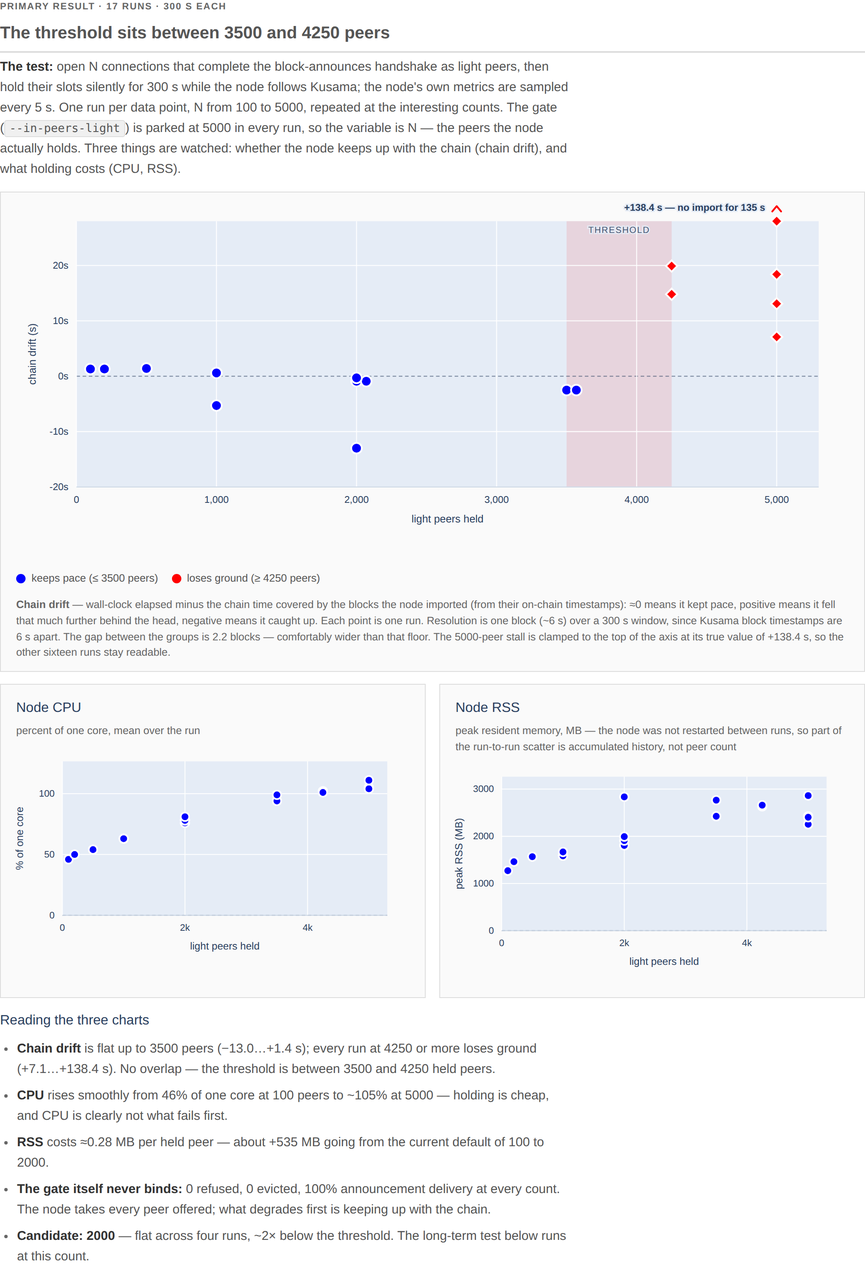
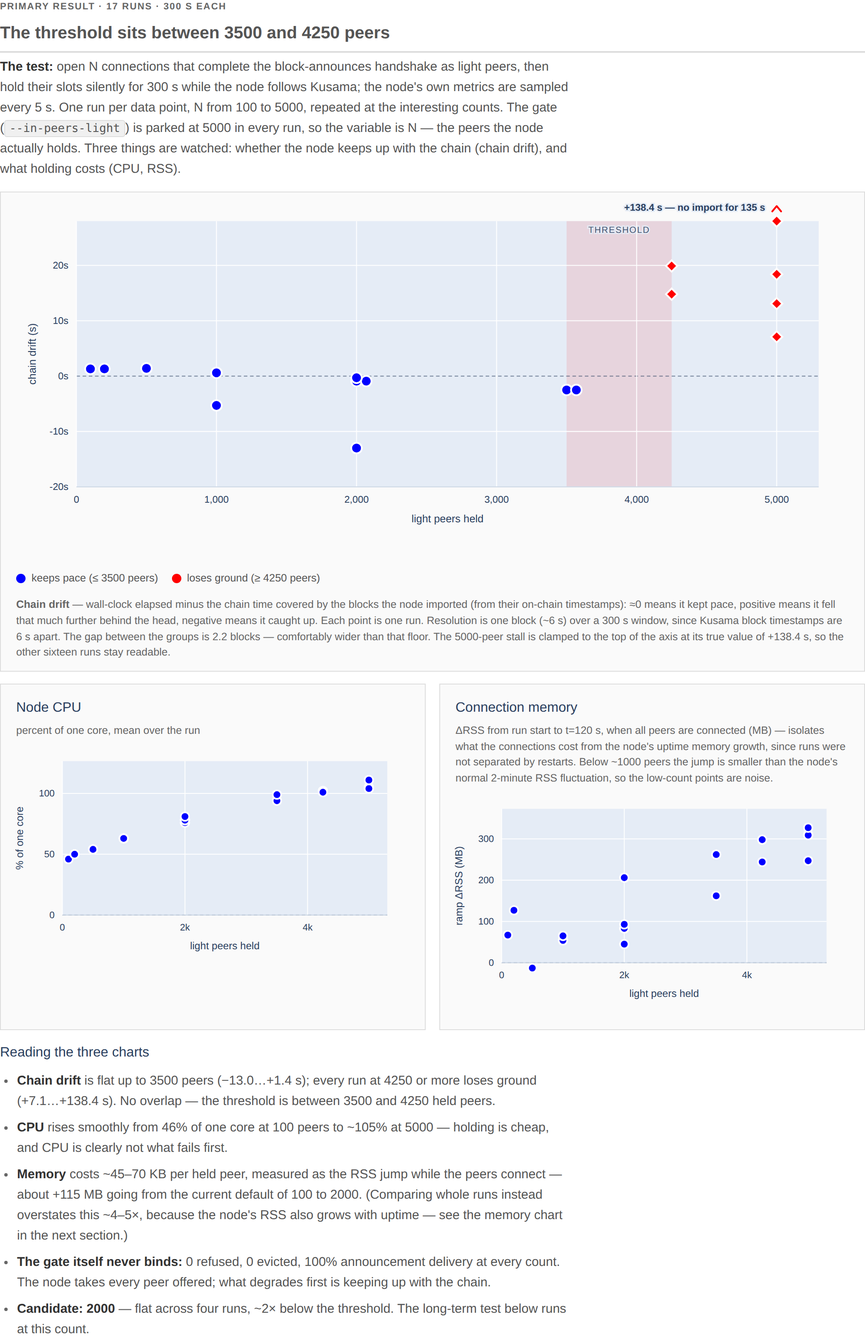
report: 2026-08-09T18:54Z

diff --git a/index.html b/index.html
@@ -205,9 +205,13 @@
         </div>
       </div>
       <div class="card">
-        <div class="card-head"><h3>Node RSS</h3><div class="card-note">peak resident memory, MB — the node was not restarted between runs, so part of the run-to-run scatter is accumulated history, not peer count</div></div>
+        <div class="card-head"><h3>Connection memory</h3><div class="card-note">ΔRSS from run start to
+        t=120 s, when all peers are connected (MB) — isolates what the connections cost from the
+        node's uptime memory growth, since runs were not separated by restarts. Below ~1000 peers
+        the jump is smaller than the node's normal 2-minute RSS fluctuation, so the low-count
+        points are noise.</div></div>
         <div class="chart-host">
-          <svg id="c-rss" viewBox="0 0 460 260" role="img" aria-label="Node memory rises from about 1271 MB at 100 peers to about 2400 MB at 5000, with run-to-run scatter."></svg>
+          <svg id="c-rss" viewBox="0 0 460 260" role="img" aria-label="Connection memory grows near-linearly with peer count, about 60 KB per peer, reaching 350 MB at 5000 peers."></svg>
           <div class="tip" id="t-rss"></div>
         </div>
       </div>
@@ -220,8 +224,10 @@
         and 4250 held peers.</li>
         <li><strong>CPU</strong> rises smoothly from 46% of one core at 100 peers to ~105% at
         5000 — holding is cheap, and CPU is clearly not what fails first.</li>
-        <li><strong>RSS</strong> costs ≈0.28 MB per held peer — about +535 MB going from the
-        current default of 100 to 2000.</li>
+        <li><strong>Memory</strong> costs ~45–70 KB per held peer, measured as the RSS jump while
+        the peers connect — about +115 MB going from the current default of 100 to 2000. (Comparing
+        whole runs instead overstates this ~4–5×, because the node's RSS also grows with uptime —
+        see the memory chart in the next section.)</li>
         <li><strong>The gate itself never binds:</strong> 0 refused, 0 evicted, 100% announcement
         delivery at every count. The node takes every peer offered; what degrades first is
         keeping up with the chain.</li>
@@ -371,7 +377,7 @@
 </div>
 
 <script>
-const D = {"peerRuns": [{"run": "light-100", "peers": 100, "drift": 1.3, "blocks": 48, "window": 295, "held": 100, "coverage": 100.0, "spread50": 1.3, "spread90": 1.7, "spread99": 2.1, "spreadMax": 3.8, "refused": 0, "evicted": 0, "rss": 1271, "cpu": 46, "fds": 1408, "finlag_mean": 2.9, "finlag_max": 4}, {"run": "light-200", "peers": 200, "drift": 1.3, "blocks": 49, "window": 295, "held": 200, "coverage": 100.0, "spread50": 2.2, "spread90": 2.8, "spread99": 3.1, "spreadMax": 3.5, "refused": 0, "evicted": 0, "rss": 1461, "cpu": 50, "fds": 1344, "finlag_mean": 2.9, "finlag_max": 5}, {"run": "light-500", "peers": 500, "drift": 1.4, "blocks": 46, "window": 295, "held": 500, "coverage": 100.0, "spread50": 5.4, "spread90": 6.4, "spread99": 7.3, "spreadMax": 7.4, "refused": 0, "evicted": 0, "rss": 1568, "cpu": 54, "fds": 1530, "finlag_mean": 2.9, "finlag_max": 4}, {"run": "light-1000-r1", "peers": 1000, "drift": 0.6, "blocks": 49, "window": 301, "held": 1000, "coverage": 100.0, "spread50": 10.0, "spread90": 12.7, "spread99": 14.4, "spreadMax": 15.0, "refused": 0, "evicted": 0, "rss": 1586, "cpu": 63, "fds": 2111, "finlag_mean": 2.9, "finlag_max": 4}, {"run": "light-1000-r2", "peers": 1000, "drift": -5.3, "blocks": 50, "window": 301, "held": 1000, "coverage": 100.0, "spread50": 10.1, "spread90": 11.9, "spread99": 12.7, "spreadMax": 13.7, "refused": 0, "evicted": 0, "rss": 1668, "cpu": 63, "fds": 2184, "finlag_mean": 3.0, "finlag_max": 5}, {"run": "light-2000-r1", "peers": 2000, "drift": -0.9, "blocks": 52, "window": 311, "held": 2000, "coverage": 100.0, "spread50": 19.3, "spread90": 21.9, "spread99": 23.1, "spreadMax": 23.6, "refused": 0, "evicted": 0, "rss": 1806, "cpu": 76, "fds": 3057, "finlag_mean": 3.8, "finlag_max": 5}, {"run": "light-2000-r2", "peers": 2000, "drift": -0.9, "blocks": 49, "window": 311, "held": 2000, "coverage": 100.0, "spread50": 20.0, "spread90": 23.4, "spread99": 1377.5, "spreadMax": 1836.7, "refused": 0, "evicted": 0, "rss": 1909, "cpu": 78, "fds": 3753, "finlag_mean": 3.0, "finlag_max": 5}, {"run": "light-2000-r3", "peers": 2000, "drift": -13.0, "blocks": 52, "window": 311, "held": 2000, "coverage": 100.0, "spread50": 20.2, "spread90": 23.5, "spread99": 27.1, "spreadMax": 39.9, "refused": 0, "evicted": 0, "rss": 1993, "cpu": 78, "fds": 3038, "finlag_mean": 2.9, "finlag_max": 4}, {"run": "light-2000-r4", "peers": 2000, "drift": -0.3, "blocks": 52, "window": 312, "held": 2000, "coverage": 100.0, "spread50": 18.7, "spread90": 22.8, "spread99": 25.4, "spreadMax": 25.9, "refused": 0, "evicted": 0, "rss": 2836, "cpu": 81, "fds": 3319, "finlag_mean": 3.1, "finlag_max": 5}, {"run": "light-3500-r1", "peers": 3500, "drift": -2.5, "blocks": 55, "window": 327, "held": 3500, "coverage": 100.0, "spread50": 33.0, "spread90": 36.9, "spread99": 39.7, "spreadMax": 41.0, "refused": 0, "evicted": 0, "rss": 2424, "cpu": 94, "fds": 5675, "finlag_mean": 3.0, "finlag_max": 5}, {"run": "light-3500-r2", "peers": 3500, "drift": -2.5, "blocks": 53, "window": 327, "held": 3500, "coverage": 100.0, "spread50": 32.6, "spread90": 38.3, "spread99": 47.0, "spreadMax": 64.3, "refused": 0, "evicted": 0, "rss": 2766, "cpu": 99, "fds": 5795, "finlag_mean": 3.3, "finlag_max": 5}, {"run": "light-4250-r1", "peers": 4250, "drift": 14.8, "blocks": 53, "window": 333, "held": 4250, "coverage": 100.0, "spread50": 32.7, "spread90": 39.9, "spread99": 45.9, "spreadMax": 47.5, "refused": 0, "evicted": 0, "rss": 2636, "cpu": 102, "fds": 5402, "finlag_mean": 1.3, "finlag_max": 3}, {"run": "light-4250-r2", "peers": 4250, "drift": 19.9, "blocks": 49, "window": 338, "held": 4250, "coverage": 100.0, "spread50": 33.1, "spread90": 39.3, "spread99": 44.5, "spreadMax": 45.4, "refused": 0, "evicted": 0, "rss": 2660, "cpu": 101, "fds": 5553, "finlag_mean": 1.5, "finlag_max": 4}, {"run": "light-5000-r1", "peers": 5000, "drift": 138.4, "blocks": 32, "window": 342, "held": 5000, "coverage": 100.0, "spread50": 38.2, "spread90": 50.5, "spread99": 51.2, "spreadMax": 64.1, "refused": 0, "evicted": 0, "rss": 2255, "cpu": 104, "fds": 6220, "finlag_mean": 1.1, "finlag_max": 4}, {"run": "light-5000-r2", "peers": 5000, "drift": 18.4, "blocks": 52, "window": 342, "held": 5000, "coverage": 100.0, "spread50": 36.4, "spread90": 46.3, "spread99": 49.6, "spreadMax": 54.8, "refused": 0, "evicted": 0, "rss": 2422, "cpu": 105, "fds": 6202, "finlag_mean": 1.4, "finlag_max": 3}, {"run": "light-5000-r3", "peers": 5000, "drift": 7.1, "blocks": 53, "window": 343, "held": 5000, "coverage": 100.0, "spread50": 36.4, "spread90": 51.6, "spread99": 75.6, "spreadMax": 86.1, "refused": 0, "evicted": 0, "rss": 2404, "cpu": 104, "fds": 6190, "finlag_mean": 1.3, "finlag_max": 3}, {"run": "light-5000-r4", "peers": 5000, "drift": 13.1, "blocks": 54, "window": 343, "held": 5000, "coverage": 100.0, "spread50": 34.8, "spread90": 45.7, "spread99": 49.1, "spreadMax": 52.7, "refused": 0, "evicted": 0, "rss": 2863, "cpu": 111, "fds": 6206, "finlag_mean": 1.8, "finlag_max": 4}], "traces": {"peers-6h": [[0, 0.0], [603, -3.0], [1207, -5.0], [1811, -1.0], [2415, -3.0], [3019, 1.0], [3623, -1.0], [4227, 3.0], [4831, 1.0], [5434, -2.0], [6038, -4.0], [6642, 0.0], [7246, -2.0], [7850, -4.0], [8454, 0.0], [9058, -2.0], [9662, 2.0], [10266, 0.0], [10869, -3.0], [11473, -5.0], [12077, -1.0], [12681, -3.0], [13285, 1.0], [13889, -1.0], [14493, 3.0], [15097, 1.0], [15700, -2.0], [16304, -4.0], [16908, -6.0], [17512, -2.0], [18116, -4.0], [18720, -0.0], [19324, -2.0], [19928, 2.0], [20532, 0.0], [21136, -2.0]], "soak-6h": [[0, 0.0], [603, 3.0], [1206, 6.0], [1809, 3.0], [2412, 6.0], [3015, 3.0], [3618, 6.0], [4221, 3.0], [4824, -0.0], [5427, 3.0], [6030, 0.0], [6633, 3.0], [7237, 7.0], [7840, 4.0], [8443, 7.0], [9046, 4.0], [9649, 7.0], [10252, 4.0], [10855, 1.0], [11458, 4.0], [12061, 1.0], [12664, 4.0], [13267, 1.0], [13870, 4.0], [14474, 8.0], [15077, 5.0], [15680, 8.0], [16283, 5.0], [16886, 2.0], [17489, 5.0], [18092, 2.0], [18696, 0.0], [19300, 4.0], [19904, 8.0], [20507, 5.0], [21111, 3.0]], "soak-12h": [[0, 0.0], [603, 3.0], [1206, 0.0], [1809, 3.0], [2412, -0.0], [3015, -3.0], [3618, 0.0], [4221, -3.0], [4824, 0.0], [5427, 3.0], [6030, 0.0], [6633, 3.0], [7236, 0.0], [7839, 3.0], [8442, 0.0], [9045, -3.0], [9648, 0.0], [10251, -3.0], [10854, 0.0], [11457, -3.0], [12060, 0.0], [12664, 4.0], [13267, 1.0], [13870, 4.0], [14473, 1.0], [15076, -2.0], [15679, 1.0], [16282, -2.0], [16885, 1.0], [17488, 4.0], [18091, -5.0], [18695, -1.0], [19298, 2.0], [19901, 5.0], [20504, 2.0], [21107, -1.0], [21710, 2.0], [22313, -1.0], [22916, 2.0], [23519, -1.0], [24123, -3.0], [24726, -0.0], [25329, 3.0], [25932, -0.0], [26535, 3.0], [27138, -0.0], [27741, 3.0], [28344, 0.0], [28947, -3.0], [29550, -0.0], [30153, -3.0], [30756, 0.0], [31359, -3.0], [31963, 1.0], [32566, 4.0], [33169, 1.0], [33772, 4.0], [34375, 1.0], [34978, -2.0], [35581, 1.0], [36184, -2.0], [36787, 1.0], [37390, -2.0], [37993, 1.0], [38596, -2.0], [39199, 1.0], [39802, 4.0], [40406, 2.0], [41010, 0.0], [41614, -2.0], [42218, 2.0], [42822, 0.0]]}, "rss": {"peers-6h": [[0, 6523], [603, 6728], [1207, 6755], [1811, 6795], [2415, 6845], [3019, 6819], [3623, 6960], [4227, 6896], [4831, 6934], [5434, 6941], [6038, 7000], [6642, 6945], [7246, 7075], [7850, 7077], [8454, 7075], [9058, 7238], [9662, 7252], [10266, 7201], [10869, 7254], [11473, 6792], [12077, 6902], [12681, 6943], [13285, 7005], [13889, 7087], [14493, 7143], [15097, 7202], [15700, 7147], [16304, 7309], [16908, 7398], [17512, 7345], [18116, 7435], [18720, 7505], [19324, 7526], [19928, 7679], [20532, 7728], [21136, 7695]], "soak-6h": [[0, 3748], [603, 4101], [1206, 4310], [1809, 4336], [2412, 4452], [3015, 4503], [3618, 4653], [4221, 4788], [4824, 4861], [5427, 4961], [6030, 5034], [6633, 5156], [7237, 5276], [7840, 4815], [8443, 4976], [9046, 5050], [9649, 5156], [10252, 5209], [10855, 5259], [11458, 5391], [12061, 5437], [12664, 5491], [13267, 5559], [13870, 5609], [14474, 5663], [15077, 5701], [15680, 5781], [16283, 5732], [16886, 5841], [17489, 5856], [18092, 5565], [18696, 5120], [19300, 5133], [19904, 5123], [20507, 5070], [21111, 5074]], "soak-12h": [[0, 4805], [603, 5182], [1206, 5342], [1809, 5356], [2412, 5413], [3015, 5491], [3618, 5545], [4221, 5540], [4824, 5622], [5427, 5657], [6030, 5840], [6633, 5897], [7236, 5510], [7839, 5537], [8442, 5645], [9045, 5647], [9648, 5690], [10251, 5828], [10854, 5888], [11457, 5982], [12060, 6042], [12664, 6205], [13267, 6205], [13870, 6264], [14473, 6326], [15076, 6494], [15679, 6500], [16282, 6638], [16885, 6793], [17488, 6666], [18091, 6892], [18695, 6528], [19298, 6512], [19901, 6618], [20504, 6662], [21107, 6698], [21710, 6769], [22313, 6844], [22916, 6793], [23519, 6939], [24123, 6974], [24726, 6987], [25329, 7094], [25932, 7096], [26535, 7116], [27138, 7129], [27741, 7182], [28344, 7262], [28947, 7135], [29550, 6754], [30153, 6745], [30756, 6749], [31359, 6834], [31963, 6890], [32566, 6778], [33169, 6879], [33772, 6908], [34375, 6886], [34978, 7046], [35581, 7008], [36184, 7041], [36787, 7165], [37390, 7153], [37993, 7185], [38596, 7313], [39199, 7352], [39802, 7059], [40406, 6599], [41010, 6663], [41614, 6760], [42218, 6869], [42822, 6910]]}, "cpu": {"peers-6h": [[5, 102], [608, 86], [1212, 86], [1816, 68], [2420, 67], [3024, 77], [3628, 76], [4232, 106], [4836, 73], [5439, 83], [6043, 77], [6647, 63], [7251, 62], [7855, 72], [8459, 77], [9063, 57], [9667, 84], [10271, 56], [10875, 87], [11478, 72], [12082, 73], [12686, 102], [13290, 96], [13894, 67], [14498, 88], [15102, 98], [15706, 57], [16310, 80], [16913, 85], [17517, 72], [18121, 61], [18725, 77], [19329, 80], [19933, 88], [20537, 80], [21141, 88]], "soak-6h": [[5, 108], [608, 476], [1211, 477], [1814, 464], [2417, 472], [3020, 473], [3623, 493], [4226, 473], [4829, 460], [5433, 470], [6036, 469], [6639, 463], [7242, 476], [7845, 467], [8448, 504], [9051, 468], [9654, 470], [10257, 483], [10860, 486], [11463, 466], [12066, 481], [12670, 472], [13273, 474], [13876, 474], [14479, 476], [15082, 472], [15685, 465], [16288, 492], [16891, 492], [17494, 472], [18097, 63], [18701, 77], [19305, 74], [19909, 88], [20513, 77], [21117, 60]], "soak-12h": [[5, 104], [608, 468], [1211, 472], [1814, 472], [2417, 464], [3020, 476], [3623, 481], [4226, 470], [4829, 465], [5432, 489], [6035, 483], [6638, 477], [7241, 478], [7844, 474], [8447, 473], [9050, 473], [9653, 477], [10256, 465], [10859, 482], [11462, 490], [12066, 470], [12669, 473], [13272, 472], [13875, 469], [14478, 481], [15081, 474], [15684, 466], [16287, 470], [16890, 470], [17493, 481], [18097, 466], [18700, 477], [19303, 476], [19906, 470], [20509, 469], [21112, 498], [21715, 476], [22318, 474], [22921, 468], [23525, 485], [24128, 479], [24731, 476], [25334, 485], [25937, 465], [26540, 471], [27143, 471], [27746, 474], [28349, 484], [28952, 497], [29555, 483], [30158, 487], [30761, 510], [31365, 470], [31968, 463], [32571, 469], [33174, 460], [33777, 469], [34380, 468], [34983, 464], [35586, 460], [36189, 479], [36792, 466], [37395, 475], [37998, 464], [38601, 462], [39204, 458], [39808, 64], [40411, 64], [41015, 75], [41619, 79], [42223, 82], [42827, 52]]}, "mixRuns": [{"run": "rep-base-1", "kind": "base", "i": 1, "drift": 0.0, "cpu": 85}, {"run": "rep-mix-1", "kind": "mix", "i": 1, "drift": 5.7, "cpu": 421}, {"run": "rep-base-2", "kind": "base", "i": 2, "drift": -0.1, "cpu": 88}, {"run": "rep-mix-2", "kind": "mix", "i": 2, "drift": -0.4, "cpu": 423}, {"run": "rep-base-3", "kind": "base", "i": 3, "drift": 0.1, "cpu": 87}, {"run": "rep-mix-3", "kind": "mix", "i": 3, "drift": -0.3, "cpu": 419}, {"run": "rep-base-4", "kind": "base", "i": 4, "drift": 5.9, "cpu": 84}, {"run": "rep-mix-4", "kind": "mix", "i": 4, "drift": -0.3, "cpu": 417}, {"run": "rep-base-5", "kind": "base", "i": 5, "drift": 0.1, "cpu": 86}, {"run": "rep-mix-5", "kind": "mix", "i": 5, "drift": 5.7, "cpu": 417}, {"run": "rep-base-6", "kind": "base", "i": 6, "drift": 6.0, "cpu": 86}, {"run": "rep-mix-6", "kind": "mix", "i": 6, "drift": -6.3, "cpu": 419}], "longRuns": [{"run": "peers-6h", "label": "6 h", "load": "peers only", "drift": 0.6, "hours": 6.0, "cpu": 80, "rss0": 6523, "rssMax": 7809}, {"run": "soak-6h", "label": "6 h", "load": "peers + serving mix", "drift": 1.5, "hours": 6.01, "cpu": 408, "rss0": 3748, "rssMax": 5974}, {"run": "soak-12h", "label": "12 h", "load": "peers + serving mix", "drift": -0.6, "hours": 12.0, "cpu": 442, "rss0": 4805, "rssMax": 7470}]};
+const D = {"peerRuns": [{"run": "light-100", "peers": 100, "drift": 1.3, "blocks": 48, "window": 295, "held": 100, "coverage": 100.0, "spread50": 1.3, "spread90": 1.7, "spread99": 2.1, "spreadMax": 3.8, "refused": 0, "evicted": 0, "rss": 1271, "rampRss": 67, "cpu": 46, "fds": 1408, "finlag_mean": 2.9, "finlag_max": 4}, {"run": "light-200", "peers": 200, "drift": 1.3, "blocks": 49, "window": 295, "held": 200, "coverage": 100.0, "spread50": 2.2, "spread90": 2.8, "spread99": 3.1, "spreadMax": 3.5, "refused": 0, "evicted": 0, "rss": 1461, "rampRss": 127, "cpu": 50, "fds": 1344, "finlag_mean": 2.9, "finlag_max": 5}, {"run": "light-500", "peers": 500, "drift": 1.4, "blocks": 46, "window": 295, "held": 500, "coverage": 100.0, "spread50": 5.4, "spread90": 6.4, "spread99": 7.3, "spreadMax": 7.4, "refused": 0, "evicted": 0, "rss": 1568, "rampRss": -13, "cpu": 54, "fds": 1530, "finlag_mean": 2.9, "finlag_max": 4}, {"run": "light-1000-r1", "peers": 1000, "drift": 0.6, "blocks": 49, "window": 301, "held": 1000, "coverage": 100.0, "spread50": 10.0, "spread90": 12.7, "spread99": 14.4, "spreadMax": 15.0, "refused": 0, "evicted": 0, "rss": 1586, "rampRss": 54, "cpu": 63, "fds": 2111, "finlag_mean": 2.9, "finlag_max": 4}, {"run": "light-1000-r2", "peers": 1000, "drift": -5.3, "blocks": 50, "window": 301, "held": 1000, "coverage": 100.0, "spread50": 10.1, "spread90": 11.9, "spread99": 12.7, "spreadMax": 13.7, "refused": 0, "evicted": 0, "rss": 1668, "rampRss": 65, "cpu": 63, "fds": 2184, "finlag_mean": 3.0, "finlag_max": 5}, {"run": "light-2000-r1", "peers": 2000, "drift": -0.9, "blocks": 52, "window": 311, "held": 2000, "coverage": 100.0, "spread50": 19.3, "spread90": 21.9, "spread99": 23.1, "spreadMax": 23.6, "refused": 0, "evicted": 0, "rss": 1806, "rampRss": 83, "cpu": 76, "fds": 3057, "finlag_mean": 3.8, "finlag_max": 5}, {"run": "light-2000-r2", "peers": 2000, "drift": -0.9, "blocks": 49, "window": 311, "held": 2000, "coverage": 100.0, "spread50": 20.0, "spread90": 23.4, "spread99": 1377.5, "spreadMax": 1836.7, "refused": 0, "evicted": 0, "rss": 1909, "rampRss": 45, "cpu": 78, "fds": 3753, "finlag_mean": 3.0, "finlag_max": 5}, {"run": "light-2000-r3", "peers": 2000, "drift": -13.0, "blocks": 52, "window": 311, "held": 2000, "coverage": 100.0, "spread50": 20.2, "spread90": 23.5, "spread99": 27.1, "spreadMax": 39.9, "refused": 0, "evicted": 0, "rss": 1993, "rampRss": 93, "cpu": 78, "fds": 3038, "finlag_mean": 2.9, "finlag_max": 4}, {"run": "light-2000-r4", "peers": 2000, "drift": -0.3, "blocks": 52, "window": 312, "held": 2000, "coverage": 100.0, "spread50": 18.7, "spread90": 22.8, "spread99": 25.4, "spreadMax": 25.9, "refused": 0, "evicted": 0, "rss": 2836, "rampRss": 206, "cpu": 81, "fds": 3319, "finlag_mean": 3.1, "finlag_max": 5}, {"run": "light-3500-r1", "peers": 3500, "drift": -2.5, "blocks": 55, "window": 327, "held": 3500, "coverage": 100.0, "spread50": 33.0, "spread90": 36.9, "spread99": 39.7, "spreadMax": 41.0, "refused": 0, "evicted": 0, "rss": 2424, "rampRss": 162, "cpu": 94, "fds": 5675, "finlag_mean": 3.0, "finlag_max": 5}, {"run": "light-3500-r2", "peers": 3500, "drift": -2.5, "blocks": 53, "window": 327, "held": 3500, "coverage": 100.0, "spread50": 32.6, "spread90": 38.3, "spread99": 47.0, "spreadMax": 64.3, "refused": 0, "evicted": 0, "rss": 2766, "rampRss": 262, "cpu": 99, "fds": 5795, "finlag_mean": 3.3, "finlag_max": 5}, {"run": "light-4250-r1", "peers": 4250, "drift": 14.8, "blocks": 53, "window": 333, "held": 4250, "coverage": 100.0, "spread50": 32.7, "spread90": 39.9, "spread99": 45.9, "spreadMax": 47.5, "refused": 0, "evicted": 0, "rss": 2636, "rampRss": 298, "cpu": 102, "fds": 5402, "finlag_mean": 1.3, "finlag_max": 3}, {"run": "light-4250-r2", "peers": 4250, "drift": 19.9, "blocks": 49, "window": 338, "held": 4250, "coverage": 100.0, "spread50": 33.1, "spread90": 39.3, "spread99": 44.5, "spreadMax": 45.4, "refused": 0, "evicted": 0, "rss": 2660, "rampRss": 244, "cpu": 101, "fds": 5553, "finlag_mean": 1.5, "finlag_max": 4}, {"run": "light-5000-r1", "peers": 5000, "drift": 138.4, "blocks": 32, "window": 342, "held": 5000, "coverage": 100.0, "spread50": 38.2, "spread90": 50.5, "spread99": 51.2, "spreadMax": 64.1, "refused": 0, "evicted": 0, "rss": 2255, "rampRss": 310, "cpu": 104, "fds": 6220, "finlag_mean": 1.1, "finlag_max": 4}, {"run": "light-5000-r2", "peers": 5000, "drift": 18.4, "blocks": 52, "window": 342, "held": 5000, "coverage": 100.0, "spread50": 36.4, "spread90": 46.3, "spread99": 49.6, "spreadMax": 54.8, "refused": 0, "evicted": 0, "rss": 2422, "rampRss": 247, "cpu": 105, "fds": 6202, "finlag_mean": 1.4, "finlag_max": 3}, {"run": "light-5000-r3", "peers": 5000, "drift": 7.1, "blocks": 53, "window": 343, "held": 5000, "coverage": 100.0, "spread50": 36.4, "spread90": 51.6, "spread99": 75.6, "spreadMax": 86.1, "refused": 0, "evicted": 0, "rss": 2404, "rampRss": 309, "cpu": 104, "fds": 6190, "finlag_mean": 1.3, "finlag_max": 3}, {"run": "light-5000-r4", "peers": 5000, "drift": 13.1, "blocks": 54, "window": 343, "held": 5000, "coverage": 100.0, "spread50": 34.8, "spread90": 45.7, "spread99": 49.1, "spreadMax": 52.7, "refused": 0, "evicted": 0, "rss": 2863, "rampRss": 327, "cpu": 111, "fds": 6206, "finlag_mean": 1.8, "finlag_max": 4}], "traces": {"peers-6h": [[0, 0.0], [603, -3.0], [1207, -5.0], [1811, -1.0], [2415, -3.0], [3019, 1.0], [3623, -1.0], [4227, 3.0], [4831, 1.0], [5434, -2.0], [6038, -4.0], [6642, 0.0], [7246, -2.0], [7850, -4.0], [8454, 0.0], [9058, -2.0], [9662, 2.0], [10266, 0.0], [10869, -3.0], [11473, -5.0], [12077, -1.0], [12681, -3.0], [13285, 1.0], [13889, -1.0], [14493, 3.0], [15097, 1.0], [15700, -2.0], [16304, -4.0], [16908, -6.0], [17512, -2.0], [18116, -4.0], [18720, -0.0], [19324, -2.0], [19928, 2.0], [20532, 0.0], [21136, -2.0]], "soak-6h": [[0, 0.0], [603, 3.0], [1206, 6.0], [1809, 3.0], [2412, 6.0], [3015, 3.0], [3618, 6.0], [4221, 3.0], [4824, -0.0], [5427, 3.0], [6030, 0.0], [6633, 3.0], [7237, 7.0], [7840, 4.0], [8443, 7.0], [9046, 4.0], [9649, 7.0], [10252, 4.0], [10855, 1.0], [11458, 4.0], [12061, 1.0], [12664, 4.0], [13267, 1.0], [13870, 4.0], [14474, 8.0], [15077, 5.0], [15680, 8.0], [16283, 5.0], [16886, 2.0], [17489, 5.0], [18092, 2.0], [18696, 0.0], [19300, 4.0], [19904, 8.0], [20507, 5.0], [21111, 3.0]], "soak-12h": [[0, 0.0], [603, 3.0], [1206, 0.0], [1809, 3.0], [2412, -0.0], [3015, -3.0], [3618, 0.0], [4221, -3.0], [4824, 0.0], [5427, 3.0], [6030, 0.0], [6633, 3.0], [7236, 0.0], [7839, 3.0], [8442, 0.0], [9045, -3.0], [9648, 0.0], [10251, -3.0], [10854, 0.0], [11457, -3.0], [12060, 0.0], [12664, 4.0], [13267, 1.0], [13870, 4.0], [14473, 1.0], [15076, -2.0], [15679, 1.0], [16282, -2.0], [16885, 1.0], [17488, 4.0], [18091, -5.0], [18695, -1.0], [19298, 2.0], [19901, 5.0], [20504, 2.0], [21107, -1.0], [21710, 2.0], [22313, -1.0], [22916, 2.0], [23519, -1.0], [24123, -3.0], [24726, -0.0], [25329, 3.0], [25932, -0.0], [26535, 3.0], [27138, -0.0], [27741, 3.0], [28344, 0.0], [28947, -3.0], [29550, -0.0], [30153, -3.0], [30756, 0.0], [31359, -3.0], [31963, 1.0], [32566, 4.0], [33169, 1.0], [33772, 4.0], [34375, 1.0], [34978, -2.0], [35581, 1.0], [36184, -2.0], [36787, 1.0], [37390, -2.0], [37993, 1.0], [38596, -2.0], [39199, 1.0], [39802, 4.0], [40406, 2.0], [41010, 0.0], [41614, -2.0], [42218, 2.0], [42822, 0.0]]}, "rss": {"peers-6h": [[0, 6523], [603, 6728], [1207, 6755], [1811, 6795], [2415, 6845], [3019, 6819], [3623, 6960], [4227, 6896], [4831, 6934], [5434, 6941], [6038, 7000], [6642, 6945], [7246, 7075], [7850, 7077], [8454, 7075], [9058, 7238], [9662, 7252], [10266, 7201], [10869, 7254], [11473, 6792], [12077, 6902], [12681, 6943], [13285, 7005], [13889, 7087], [14493, 7143], [15097, 7202], [15700, 7147], [16304, 7309], [16908, 7398], [17512, 7345], [18116, 7435], [18720, 7505], [19324, 7526], [19928, 7679], [20532, 7728], [21136, 7695]], "soak-6h": [[0, 3748], [603, 4101], [1206, 4310], [1809, 4336], [2412, 4452], [3015, 4503], [3618, 4653], [4221, 4788], [4824, 4861], [5427, 4961], [6030, 5034], [6633, 5156], [7237, 5276], [7840, 4815], [8443, 4976], [9046, 5050], [9649, 5156], [10252, 5209], [10855, 5259], [11458, 5391], [12061, 5437], [12664, 5491], [13267, 5559], [13870, 5609], [14474, 5663], [15077, 5701], [15680, 5781], [16283, 5732], [16886, 5841], [17489, 5856], [18092, 5565], [18696, 5120], [19300, 5133], [19904, 5123], [20507, 5070], [21111, 5074]], "soak-12h": [[0, 4805], [603, 5182], [1206, 5342], [1809, 5356], [2412, 5413], [3015, 5491], [3618, 5545], [4221, 5540], [4824, 5622], [5427, 5657], [6030, 5840], [6633, 5897], [7236, 5510], [7839, 5537], [8442, 5645], [9045, 5647], [9648, 5690], [10251, 5828], [10854, 5888], [11457, 5982], [12060, 6042], [12664, 6205], [13267, 6205], [13870, 6264], [14473, 6326], [15076, 6494], [15679, 6500], [16282, 6638], [16885, 6793], [17488, 6666], [18091, 6892], [18695, 6528], [19298, 6512], [19901, 6618], [20504, 6662], [21107, 6698], [21710, 6769], [22313, 6844], [22916, 6793], [23519, 6939], [24123, 6974], [24726, 6987], [25329, 7094], [25932, 7096], [26535, 7116], [27138, 7129], [27741, 7182], [28344, 7262], [28947, 7135], [29550, 6754], [30153, 6745], [30756, 6749], [31359, 6834], [31963, 6890], [32566, 6778], [33169, 6879], [33772, 6908], [34375, 6886], [34978, 7046], [35581, 7008], [36184, 7041], [36787, 7165], [37390, 7153], [37993, 7185], [38596, 7313], [39199, 7352], [39802, 7059], [40406, 6599], [41010, 6663], [41614, 6760], [42218, 6869], [42822, 6910]]}, "cpu": {"peers-6h": [[5, 102], [608, 86], [1212, 86], [1816, 68], [2420, 67], [3024, 77], [3628, 76], [4232, 106], [4836, 73], [5439, 83], [6043, 77], [6647, 63], [7251, 62], [7855, 72], [8459, 77], [9063, 57], [9667, 84], [10271, 56], [10875, 87], [11478, 72], [12082, 73], [12686, 102], [13290, 96], [13894, 67], [14498, 88], [15102, 98], [15706, 57], [16310, 80], [16913, 85], [17517, 72], [18121, 61], [18725, 77], [19329, 80], [19933, 88], [20537, 80], [21141, 88]], "soak-6h": [[5, 108], [608, 476], [1211, 477], [1814, 464], [2417, 472], [3020, 473], [3623, 493], [4226, 473], [4829, 460], [5433, 470], [6036, 469], [6639, 463], [7242, 476], [7845, 467], [8448, 504], [9051, 468], [9654, 470], [10257, 483], [10860, 486], [11463, 466], [12066, 481], [12670, 472], [13273, 474], [13876, 474], [14479, 476], [15082, 472], [15685, 465], [16288, 492], [16891, 492], [17494, 472], [18097, 63], [18701, 77], [19305, 74], [19909, 88], [20513, 77], [21117, 60]], "soak-12h": [[5, 104], [608, 468], [1211, 472], [1814, 472], [2417, 464], [3020, 476], [3623, 481], [4226, 470], [4829, 465], [5432, 489], [6035, 483], [6638, 477], [7241, 478], [7844, 474], [8447, 473], [9050, 473], [9653, 477], [10256, 465], [10859, 482], [11462, 490], [12066, 470], [12669, 473], [13272, 472], [13875, 469], [14478, 481], [15081, 474], [15684, 466], [16287, 470], [16890, 470], [17493, 481], [18097, 466], [18700, 477], [19303, 476], [19906, 470], [20509, 469], [21112, 498], [21715, 476], [22318, 474], [22921, 468], [23525, 485], [24128, 479], [24731, 476], [25334, 485], [25937, 465], [26540, 471], [27143, 471], [27746, 474], [28349, 484], [28952, 497], [29555, 483], [30158, 487], [30761, 510], [31365, 470], [31968, 463], [32571, 469], [33174, 460], [33777, 469], [34380, 468], [34983, 464], [35586, 460], [36189, 479], [36792, 466], [37395, 475], [37998, 464], [38601, 462], [39204, 458], [39808, 64], [40411, 64], [41015, 75], [41619, 79], [42223, 82], [42827, 52]]}, "mixRuns": [{"run": "rep-base-1", "kind": "base", "i": 1, "drift": 0.0, "cpu": 85}, {"run": "rep-mix-1", "kind": "mix", "i": 1, "drift": 5.7, "cpu": 421}, {"run": "rep-base-2", "kind": "base", "i": 2, "drift": -0.1, "cpu": 88}, {"run": "rep-mix-2", "kind": "mix", "i": 2, "drift": -0.4, "cpu": 423}, {"run": "rep-base-3", "kind": "base", "i": 3, "drift": 0.1, "cpu": 87}, {"run": "rep-mix-3", "kind": "mix", "i": 3, "drift": -0.3, "cpu": 419}, {"run": "rep-base-4", "kind": "base", "i": 4, "drift": 5.9, "cpu": 84}, {"run": "rep-mix-4", "kind": "mix", "i": 4, "drift": -0.3, "cpu": 417}, {"run": "rep-base-5", "kind": "base", "i": 5, "drift": 0.1, "cpu": 86}, {"run": "rep-mix-5", "kind": "mix", "i": 5, "drift": 5.7, "cpu": 417}, {"run": "rep-base-6", "kind": "base", "i": 6, "drift": 6.0, "cpu": 86}, {"run": "rep-mix-6", "kind": "mix", "i": 6, "drift": -6.3, "cpu": 419}], "longRuns": [{"run": "peers-6h", "label": "6 h", "load": "peers only", "drift": 0.6, "hours": 6.0, "cpu": 80, "rss0": 6523, "rssMax": 7809}, {"run": "soak-6h", "label": "6 h", "load": "peers + serving mix", "drift": 1.5, "hours": 6.01, "cpu": 408, "rss0": 3748, "rssMax": 5974}, {"run": "soak-12h", "label": "12 h", "load": "peers + serving mix", "drift": -0.6, "hours": 12.0, "cpu": 442, "rss0": 4805, "rssMax": 7470}]};
 
 const el = (t, a) => { const n = document.createElementNS("http://www.w3.org/2000/svg", t);
   for (const k in a) n.setAttribute(k, a[k]); return n; };
@@ -437,7 +443,7 @@ function legend(id, items) {
     { k: "Chain drift at 2000", v: "≤ 0 s", n: `kept pace in all four runs: ${at2000.join(", ")} s` },
     { k: "Measured threshold", v: "3500–4250", n: "peers held before block import loses ground — no overlap between the groups" },
     { k: "Margin", v: "~2×", n: "from the recommended 2000 to the first degraded count" },
-    { k: "Cost of 100 → 2000", v: "+535 MB", n: "and +30% of one core — ≈0.28 MB per held peer" },
+    { k: "Cost of 100 → 2000", v: "~60 KB/peer", n: "≈ +115 MB of connection memory, plus +30% of one core" },
   ];
   document.getElementById("kpis").innerHTML = kpis.map(x =>
     `<div class="kpi"><div class="k">${x.k}</div><div class="v">${x.v}</div><div class="n">${x.n}</div></div>`).join("");
@@ -623,7 +629,7 @@ function costChart(svgId, tipId, key, unit, yl) {
   const t = document.getElementById("tbl-peers");
   t.innerHTML = "<thead><tr><th>run</th><th>peers</th><th>drift</th><th>held</th>"
     + "<th>blocks</th><th>window</th><th>coverage</th><th>spread p50/p99/max</th><th>refused</th>"
-    + "<th>evicted</th><th>finality lag mean/max</th><th>fds peak</th><th>RSS</th><th>CPU</th></tr></thead><tbody>"
+    + "<th>evicted</th><th>finality lag mean/max</th><th>fds peak</th><th>ramp ΔRSS</th><th>RSS peak</th><th>CPU</th></tr></thead><tbody>"
     + D.peerRuns.map(r => {
       const bad = r.peers >= 4250;
       return `<tr><td>${r.run}</td><td>${r.peers.toLocaleString("en-US")}</td>`
@@ -631,7 +637,7 @@ function costChart(svgId, tipId, key, unit, yl) {
         + `<td>${r.held.toLocaleString("en-US")}</td><td>${r.blocks}</td><td>${r.window} s</td>`
         + `<td>${r.coverage}%</td><td>${r.spread50} / ${r.spread99} / ${r.spreadMax} ms</td><td>${r.refused}</td><td>${r.evicted}</td>`
         + `<td>${r.finlag_mean} / ${r.finlag_max} blk</td><td>${r.fds.toLocaleString("en-US")}</td>`
-        + `<td>${r.rss.toLocaleString("en-US")} MB</td><td>${r.cpu}%</td></tr>`;
+        + `<td>+${r.rampRss} MB</td><td>${r.rss.toLocaleString("en-US")} MB</td><td>${r.cpu}%</td></tr>`;
     }).join("") + "</tbody>";
 
   const l = document.getElementById("tbl-long");
@@ -645,6 +651,6 @@ function costChart(svgId, tipId, key, unit, yl) {
 })();
 
 costChart("c-cpu", "t-cpu", "cpu", "% of one core", "% of one core");
-costChart("c-rss", "t-rss", "rss", " MB", "peak RSS (MB)");
+costChart("c-rss", "t-rss", "rampRss", " MB", "ramp ΔRSS (MB)");
 </script>
 </body></html>
